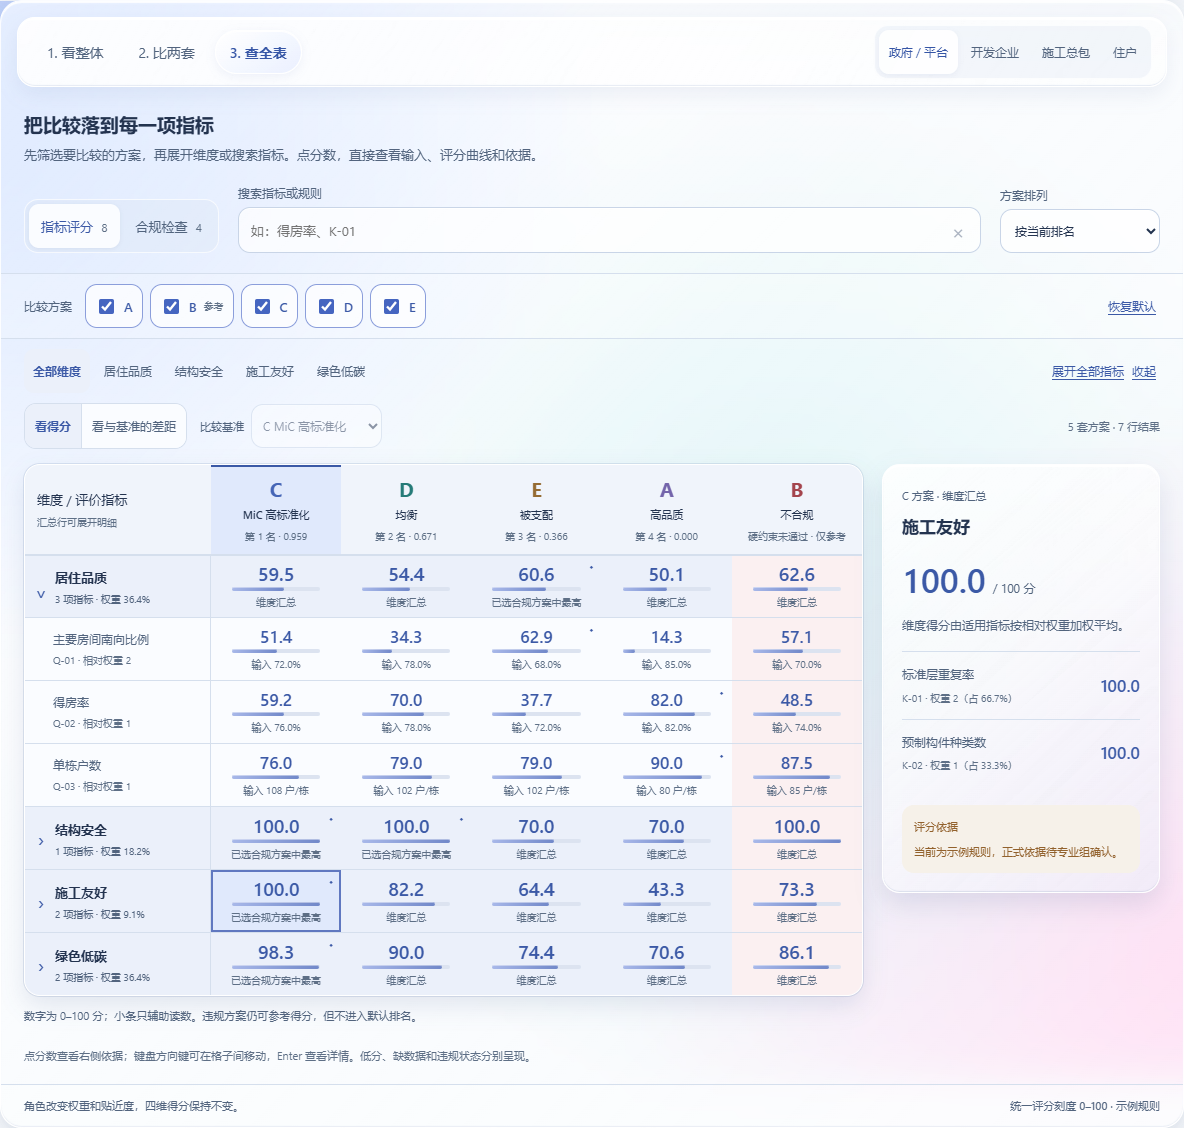
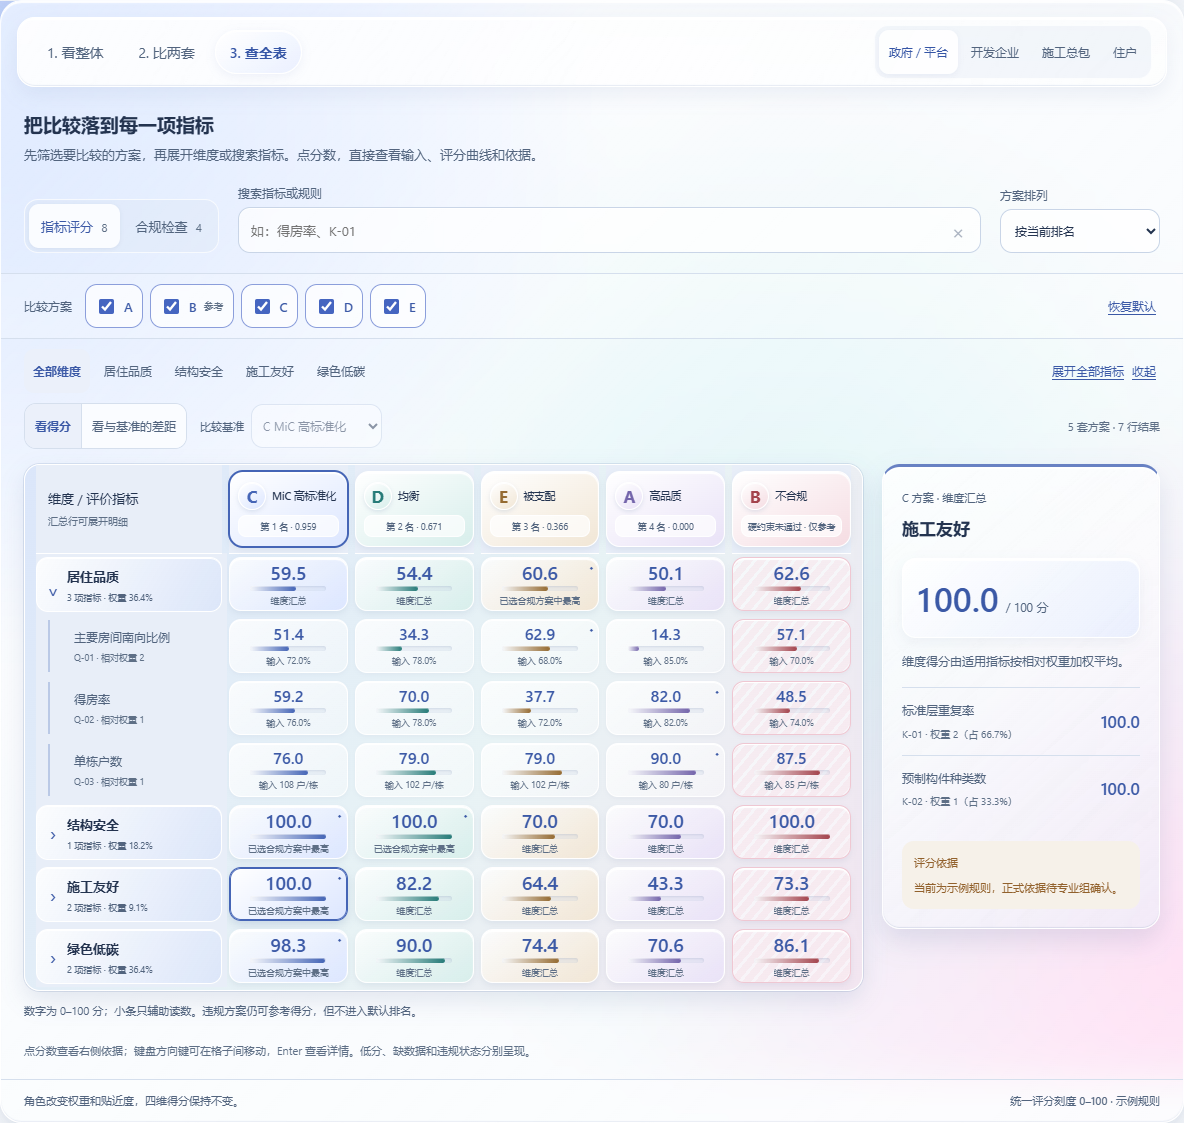
design: rebuild indicator table as glass card matrix with matching export

diff --git a/design/prototype/comparison-table.js b/design/prototype/comparison-table.js
@@ -207,14 +207,51 @@ function initMatrixControls() {
 function matrixSvg() {
   const shown=tableSchemes(),rows=tableRows(),labelWidth=205,cellWidth=156,left=30,top=124,header=92,rowHeight=65;
   const W=Math.max(730,left*2+labelWidth+shown.length*cellWidth),H=top+header+rows.length*rowHeight+112;
-  const text=(x,y,value,size=13,color='#526f82',anchor='start',weight=400)=>`<text x="${x}" y="${y}" font-size="${size}" fill="${color}" text-anchor="${anchor}" font-weight="${weight}">${escapeText(value)}</text>`;
-  const rect=(x,y,w,h,fill)=>`<rect x="${x}" y="${y}" width="${w}" height="${h}" fill="${fill}" stroke="#dce5eb"/>`;
-  let body=text(30,38,'筑衡 · 指标与依据查询',24,'#203e54','start',600)+text(30,67,`${roleLabels[state.role]}视角 · ${state.matrixDataset==='compliance'?'合规检查':state.matrixMode==='difference'?`得分差 / 以 ${schemeById(state.matrixBaseline).letter} 为基准`:'维度与指标得分'}`,14);
-  body+=text(30,95,`${shown.length} 套方案 · ${rows.length} 行结果${state.matrixSearch?` · 搜索：${state.matrixSearch}`:''}`,12,'#52647e');
-  body+=rect(left,top,labelWidth,header,'#ebf0fa')+text(left+14,top+46,'维度 / 指标',14);
-  shown.forEach((s,index)=>{const x=left+labelWidth+index*cellWidth;body+=rect(x,top,cellWidth,header,'#f0f4fb')+text(x+cellWidth/2,top+25,s.letter,23,pointColors[s.id],'middle',600)+text(x+cellWidth/2,top+48,s.title,12,'#52647e','middle')+text(x+cellWidth/2,top+70,ranked(s.id)?`第 ${ranked(s.id).rank} 名`:'未通过硬约束 / 参考',11,'#52647e','middle');});
-  rows.forEach((row,index)=>{const y=top+header+index*rowHeight;body+=rect(left,y,labelWidth,rowHeight,row.kind==='dimension'?'#ebf0fa':'#fff')+text(left+13,y+27,row.name.replace(/（.*?）/g,''),13,'#48677e','start',row.kind==='dimension'?600:400)+text(left+13,y+47,row.kind==='dimension'?`权重 ${one(current().weights[row.dimensionIndex]*100)}%`:row.key,11,'#5e6f86');shown.forEach((s,col)=>{const x=left+labelWidth+col*cellWidth;let val='',note='',color='#3b59a6';if(row.kind==='hard'){const status=tableStatus(row,s.id);val=`${status.icon} ${status.label}`;color=status.style==='fail'?'#a4444d':status.style==='pass'?'#277465':'#5e6f86';}else{const value=tableScore(row,s.id),base=tableScore(row,state.matrixBaseline),delta=valid(value)&&valid(base)?value-base:null;val=state.matrixMode==='difference'?(String(s.id)===state.matrixBaseline&&valid(value)?'基准':signed(delta)):one(value);note=!valid(value)?'缺数据':state.matrixMode==='difference'?`原分 ${one(value)}`:row.kind==='metric'?`输入 ${inputValue(evaluation(s.id).metrics[row.key],row.key)}`:'';if(state.matrixMode==='difference'&&valid(delta)&&delta<0)color='#92612c';}body+=rect(x,y,cellWidth,rowHeight,row.kind==='dimension'?'#f0f4fb':'#fff')+text(x+cellWidth/2,y+30,val,19,color,'middle',600)+text(x+cellWidth/2,y+50,note,10,'#5e6f86','middle');});});
+  const wash={'1':'#e9e2f7','2':'#f5dce2','3':'#dce6ff','4':'#d7eeeb','5':'#f1e6d5'};
+  const text=(x,y,value,size=13,color='#52647e',anchor='start',weight=400)=>`<text x="${x}" y="${y}" font-size="${size}" fill="${color}" text-anchor="${anchor}" font-weight="${weight}">${escapeText(value)}</text>`;
+  const rect=(x,y,w,h,fill,stroke='#fff')=>`<rect x="${x}" y="${y}" width="${w}" height="${h}" rx="11" fill="${fill}" stroke="${stroke}"/>`;
+  let body=text(30,38,'筑衡 · 指标与依据查询',24,'#23334f','start',600)+text(30,67,`${roleLabels[state.role]}视角 · ${state.matrixDataset==='compliance'?'合规检查':state.matrixMode==='difference'?`得分差 / 以 ${schemeById(state.matrixBaseline).letter} 为基准`:'维度与指标得分'}`,14);
+  body+=text(30,95,`${shown.length} 套方案 · ${rows.length} 行结果${state.matrixSearch?` · 搜索：${state.matrixSearch}`:''}`,12);
+  body+=rect(left,top,labelWidth-8,header-8,'#e8eef8')+text(left+14,top+42,state.matrixDataset==='compliance'?'硬约束规则':'维度 / 指标',14);
+  shown.forEach((s,index)=>{
+    const x=left+labelWidth+index*cellWidth;
+    body+=rect(x+3,top,cellWidth-9,header-8,`url(#matrix-card-${s.id})`,state.matrixActive?.scheme===String(s.id)?pointColors[s.id]:'#fff');
+    body+=`<circle cx="${x+cellWidth/2}" cy="${top+22}" r="15" fill="#fff" fill-opacity=".7" stroke="#fff"/>`;
+    body+=text(x+cellWidth/2,top+29,s.letter,21,pointColors[s.id],'middle',600)+text(x+cellWidth/2,top+50,s.title,12,'#23334f','middle')+text(x+cellWidth/2,top+69,ranked(s.id)?`第 ${ranked(s.id).rank} 名 · ${ranked(s.id).closeness.toFixed(3)}`:'未通过硬约束 · 仅参考',10,'#52647e','middle');
+  });
+  rows.forEach((row,index)=>{
+    const y=top+header+index*rowHeight;
+    body+=rect(left,y,labelWidth-8,rowHeight-7,row.kind==='dimension'?'#e1e9f8':'#f1f5fb')+text(left+13,y+25,row.name.replace(/（.*?）/g,''),13,'#23334f','start',row.kind==='dimension'?600:400)+text(left+13,y+44,row.kind==='dimension'?`权重 ${one(current().weights[row.dimensionIndex]*100)}%`:row.key,11);
+    shown.forEach((s,col)=>{
+      const x=left+labelWidth+col*cellWidth,id=String(s.id),selected=state.matrixActive?.scheme===id&&state.matrixActive?.row===row.key;
+      const value=tableScore(row,id),base=tableScore(row,state.matrixBaseline),delta=valid(value)&&valid(base)?value-base:null,relative=state.matrixMode==='difference';
+      let val='',note='',color='#3b59a6';
+      if(row.kind==='hard'){
+        const status=tableStatus(row,id);val=`${status.icon} ${status.label}`;
+        color=status.style==='fail'?'#a4444d':status.style==='pass'?'#277465':'#5e6f86';
+      }else{
+        val=relative?(id===state.matrixBaseline&&valid(value)?'基准':signed(delta)):one(value);
+        const metric=evaluation(id)?.metrics[row.key];
+        note=!valid(value)?(metric?.status==='not_applicable'?'不适用':'缺数据'):relative?`原分 ${one(value)}`:row.kind==='metric'?`输入 ${inputValue(metric,row.key)}`:'维度汇总';
+        if(relative&&valid(value)&&!valid(base))note='基准缺数据';
+        if(relative&&valid(delta)&&delta<0)color='#92612c';
+      }
+      const fill=excluded(id)?'url(#matrix-reference)':row.kind==='dimension'||selected?`url(#matrix-card-${id})`:'#ffffffb3';
+      body+=rect(x+3,y,cellWidth-9,rowHeight-7,fill,selected?pointColors[id]:'#fff');
+      body+=text(x+cellWidth/2,y+25,val,row.kind==='hard'?14:19,color,'middle',600);
+      if(row.kind!=='hard'){
+        const tx=x+28,tw=cellWidth-56;
+        body+=rect(tx,y+32,tw,4,'#d0daea');
+        const start=relative?(valid(delta)&&delta<0?50-Math.min(50,Math.abs(delta)/2):50):0;
+        const extent=relative?(valid(delta)?Math.min(50,Math.abs(delta)/2):0):(valid(value)?Math.max(0,Math.min(100,value)):0);
+        if(extent>0)body+=rect(tx+tw*start/100,y+32,tw*extent/100,4,relative&&delta<0?'#aa7a39':pointColors[id]);
+        if(relative)body+=`<line x1="${tx+tw/2}" y1="${y+30}" x2="${tx+tw/2}" y2="${y+39}" stroke="#5e6f86"/>`;
+        body+=text(x+cellWidth/2,y+50,note,10,'#52647e','middle');
+      }
+    });
+  });
   if(!rows.length||!shown.length)body+=text(30,top+header+45,'没有可导出的匹配结果',14);
-  body+=text(30,H-54,'缺数据、不适用和未通过硬约束分别呈现；违规方案不参与默认排名。',12,'#52647e')+text(30,H-26,'虚构示例，仅供设计讨论，不得作为工程验证或答辩结论。',12,'#52647e');
-  return `<svg xmlns="http://www.w3.org/2000/svg" width="${W}" height="${H}" viewBox="0 0 ${W} ${H}" style="font-family:Segoe UI,Microsoft YaHei,sans-serif">${exportGlassBackdrop(W,H)}${body}</svg>`;
+  body+=text(30,H-54,'缺数据、不适用和未通过硬约束分别呈现；违规方案不参与默认排名。',12)+text(30,H-26,'虚构示例，仅供设计讨论，不得作为工程验证或答辩结论。',12);
+  const paints=`<defs>${shown.map(s=>`<linearGradient id="matrix-card-${s.id}" x2="1" y2="1"><stop stop-color="#fff"/><stop offset="1" stop-color="${wash[s.id]}"/></linearGradient>`).join('')}<pattern id="matrix-reference" width="10" height="10" patternUnits="userSpaceOnUse" patternTransform="rotate(40)"><rect width="10" height="10" fill="#faebf0"/><rect width="3" height="10" fill="#fff" fill-opacity=".7"/></pattern></defs>`;
+  return `<svg xmlns="http://www.w3.org/2000/svg" width="${W}" height="${H}" viewBox="0 0 ${W} ${H}" style="font-family:Segoe UI,Microsoft YaHei,sans-serif">${exportGlassBackdrop(W,H)}${paints}${body}</svg>`;
 }

diff --git a/design/prototype/comparison-glass.css b/design/prototype/comparison-glass.css
@@ -165,7 +165,104 @@ input[type=checkbox] { accent-color: #4565c0; }
 #matrix th[data-column="3"] .table-scheme-title > span { color: #4565b6; }
 #matrix th[data-column="4"] .table-scheme-title > span { color: #267b78; }
 #matrix th[data-column="5"] .table-scheme-title > span { color: #956b32; }
-.table-score-cell.is-selected { box-shadow: inset 0 0 0 2px #6078c0; }
+#matrix [data-column="1"] { --scheme-color: #7465ab; --scheme-wash: #e9e2f7; }
+#matrix [data-column="2"] { --scheme-color: #a4444d; --scheme-wash: #f5dce2; }
+#matrix [data-column="3"] { --scheme-color: #4565b6; --scheme-wash: #dce6ff; }
+#matrix [data-column="4"] { --scheme-color: #267b78; --scheme-wash: #d7eeeb; }
+#matrix [data-column="5"] { --scheme-color: #956b32; --scheme-wash: #f1e6d5; }
+#view-matrix .matrix-scroll {
+  background: linear-gradient(125deg,#dbe6fa,#e8f3f5 55%,#f2e5f0);
+  padding: 0 4px 3px;
+}
+#view-matrix .matrix { min-width: 735px; border-spacing: 7px 0; }
+#view-matrix .matrix th, #view-matrix .matrix td { border-bottom: 0; }
+#view-matrix .matrix thead th {
+  background: #e8eef8; box-shadow: 0 1px 0 #fff;
+  height: 88px;
+}
+#view-matrix .matrix thead th:first-child { width: 186px; background: #e8eef8; }
+.table-scheme-title {
+  margin: 6px 0; padding: 8px; min-height: 76px;
+  display: grid; grid-template-columns: 28px minmax(0,1fr); align-items: center; gap: 3px 6px;
+  border: 1px solid #fff; border-radius: 14px;
+  background: linear-gradient(150deg,#fff,var(--scheme-wash));
+  box-shadow: inset 0 2px 1px #fff, 0 3px 7px #314e8417;
+}
+.table-scheme-title > span {
+  display: grid; place-items: center; width: 28px; height: 28px;
+  margin: 0; font-size: 17px; border-radius: 50%;
+  background: linear-gradient(145deg,#fff,var(--scheme-wash));
+  border: 1px solid #fff; box-shadow: inset 0 1px 0 #fff, 0 2px 5px #314e8426;
+}
+.table-scheme-title strong {
+  text-align: left; line-height: 1.35; font-size: 10.5px;
+  white-space: normal; overflow: visible; text-overflow: clip; overflow-wrap: anywhere;
+}
+.table-scheme-title small {
+  grid-column: 1 / -1; margin: 0; padding: 3px 0;
+  background: #ffffffb3; border: 1px solid #ffffffd9; border-radius: 8px;
+  color: #52647e; font-size: 9px;
+}
+#view-matrix .matrix thead .selected-column {
+  background: #e8eef8; box-shadow: 0 1px 0 #fff;
+}
+.selected-column .table-scheme-title { outline: 2px solid var(--scheme-color); outline-offset: -1px; }
+#view-matrix .table-row-label {
+  background: #e8eef8; border-right: 0 !important;
+  box-shadow: 5px 0 0 #e8eef8;
+}
+#view-matrix .dimension-row { background: transparent; }
+#view-matrix .dimension-row .table-row-label { background: #e8eef8; }
+.dimension-disclosure {
+  padding: 8px 10px; min-height: 54px; border: 1px solid #fff; border-radius: 12px;
+  background: linear-gradient(120deg,#ffffffd9,#dce6f9);
+  box-shadow: inset 0 1px 0 #fff;
+}
+.dimension-disclosure strong { font-size: 13px; }
+.dimension-disclosure small { font-size: 9px; }
+.indicator-label { padding: 9px 10px 9px 24px; border-left: 2px solid #bac9e6; margin: 4px 0 4px 12px; }
+.indicator-label small { font-size: 9px; }
+.table-score-cell {
+  height: 54px; margin: 4px 0; padding: 5px 4px; gap: 3px;
+  border: 1px solid #ffffffed; border-radius: 12px;
+  background: linear-gradient(145deg,#ffffffcc,#ffffff57);
+  box-shadow: inset 0 1px 0 #fff, 0 2px 4px #314e840a;
+}
+.dimension-row .table-score-cell {
+  background: linear-gradient(145deg,#ffffffcc,var(--scheme-wash));
+  box-shadow: inset 0 2px 1px #fff, 0 3px 6px #314e8414;
+}
+.table-score-cell.is-selected {
+  background: linear-gradient(145deg,#fff,var(--scheme-wash));
+  border-color: var(--scheme-color);
+  box-shadow: inset 0 0 0 1px var(--scheme-color), inset 0 2px 1px #fff, 0 4px 9px #314e8426;
+}
+.table-score-cell.reference-cell:not(.is-selected) {
+  background: repeating-linear-gradient(130deg,#faebf0ad,#faebf0ad 7px,#ffffff80 7px,#ffffff80 10px);
+  border-color: #efc7d2;
+}
+.table-cell-value { font-size: 19px; }
+.indicator-row .table-cell-value { font-size: 16px; }
+.table-cell-note { font-size: 9px; }
+.dimension-row .table-cell-note { overflow: hidden; text-overflow: ellipsis; max-width: 100%; }
+.table-cell-value small { font-size: 7px; top: 7px; right: 5px; }
+.table-score-cell .cell-tick { width: 70%; height: 5px; background: #bfcbe33d; box-shadow: inset 0 1px 2px #50649026; }
+.table-score-cell .cell-tick i { height: 5px; background: linear-gradient(90deg,#ffffffaa,var(--scheme-color)); }
+.table-score-cell .below + .cell-tick i { background: linear-gradient(90deg,#e7d2ac,#aa7a39); }
+.rule-state { border-radius: 10px; padding: 7px 9px; border: 1px solid #fff; background: #ffffffb3; }
+.rule-state.pass { background: #e5f4ef; border-color: #b6dace; }
+.rule-state.fail { background: #fbe5eb; border-color: #e5a2b2; }
+.rule-state.missing, .rule-state.neutral { background: #edf0f5; border-color: #cfd7e4; }
+#matrix-inspector { border-top: 3px solid #6881c3; }
+#matrix-inspector .inspector-number {
+  padding: 16px 12px; border: 1px solid #fff; border-radius: 14px;
+  background: linear-gradient(135deg,#ffffffed,#dce7ff80);
+  box-shadow: inset 0 2px 1px #fff, 0 5px 14px #344b8010;
+}
+@media (hover:hover) {
+  .table-score-cell:hover { background: linear-gradient(145deg,#fff,var(--scheme-wash)); border-color: #a2b3d6; }
+  .table-score-cell.is-selected:hover { background: linear-gradient(145deg,#fff,var(--scheme-wash)); border-color: var(--scheme-color); }
+}
 .cell-tick { height: 4px; background: #dce3f0; border-radius: 4px; }
 .cell-tick i { height: 4px; background: linear-gradient(90deg,#a8b8e9,#7188c9); border-radius: 4px; box-shadow: inset 0 1px 0 #ffffff70; }
 .below + .cell-tick i { background: linear-gradient(90deg,#decaac,#b28d5b); }
@@ -192,6 +289,9 @@ input[type=checkbox] { accent-color: #4565c0; }
   .plot-wrap, .pair-plot, #matrix-detail-dialog {
     background: #f8faff; backdrop-filter: none; -webkit-backdrop-filter: none;
   }
+  .table-score-cell, .dimension-row .table-score-cell, .table-scheme-title,
+  .dimension-disclosure, #matrix-inspector .inspector-number { background: #f8faff; }
+  .table-score-cell.reference-cell:not(.is-selected) { background: #faebf0; }
 }
 @media (max-width:980px) {
   .view-tabs { min-height: 60px; }

diff --git a/design/prototype/comparison.js b/design/prototype/comparison.js
@@ -9,7 +9,8 @@ const dimensions = [
 ];
 const roleLabels = { government: '政府 / 平台', developer: '开发企业', contractor: '施工总包', resident: '住户' };
 const schemes = data.schemes.map(scheme => ({ ...scheme, letter: scheme.name.split(' ')[0], title: scheme.name.substring(scheme.name.indexOf(' ') + 1) }));
-const state = { role: 'government', view: 'map', selected: '3', dimension: 2, x: 0, y: 2, includeB: false, pairA: '3', pairB: '4' };
+const requestedView = new URLSearchParams(location.hash.slice(1)).get('view');
+const state = { role: 'government', view: ['map','pair','matrix'].includes(requestedView) ? requestedView : 'map', selected: '3', dimension: 2, x: 0, y: 2, includeB: false, pairA: '3', pairB: '4' };
 Object.assign(state, {
   matrixDataset: 'scores', matrixMode: 'score', matrixBaseline: '3', matrixDimension: 'all', matrixSearch: '', matrixOrder: 'rank',
   matrixShown: new Set(schemes.map(s => String(s.id))), matrixOpen: new Set(['quality']),

diff --git a/design/prototype/comparison.html b/design/prototype/comparison.html
@@ -14,7 +14,7 @@
     <a class="nav-link" href="index.html"><span>01</span>项目与方案</a>
     <div class="nav-link active"><span>02</span>多方案对比<i>↗</i></div>
     <a class="nav-link" href="index.html"><span>03</span>推演与报告</a>
-    <div class="side-foot"><span class="status-dot"></span> 展示设计 · V5.1<small>看整体 → 比两套 → 查全表</small></div>
+    <div class="side-foot"><span class="status-dot"></span> 展示设计 · V6<small>看整体 → 比两套 → 查全表</small></div>
   </aside>
   <main>
     <header class="topbar"><span>杭州钱塘 · 保障性租赁住房 <b>/</b> 多方案比选</span><span class="sample-tag">虚构示例 · 设计讨论</span></header>

diff --git a/design/glass-chart-handoff.md b/design/glass-chart-handoff.md
@@ -1,4 +1,4 @@
-# 玻璃风图表交接 · V5.1
+# 玻璃风图表交接 · V6
 
 ## 这次交付
 
@@ -13,7 +13,7 @@
 | 二级内容 | 半透明白到浅蓝渐变；圆角 18px；轻模糊与投影 | 当前方案、差值小结、评分依据，独立于主玻璃层 |
 | 正文 / 辅助 | #23334f / #52647e | 数值、轴标签和解释不降低透明度 |
 | 方案色 | A #7465ab；B #a4444d；C #4565b6；D #267b78；E #956b32 | 所有视图保持同一方案身份；颜色不代表分数高低 |
-| 评分表 | #fafcff / #ebf0fa；选中 #e0e9fc | 实底隔离文字；细条仅辅助读数 |
+| 评分表 | 固定层 #e8eef8；分数格白色高光到方案浅色；圆角 12px | 分离方案列与指标行；固定层隔离滚动内容，选中格及表头以方案色描边 |
 | 状态 | 通过 #277465；未通过 #a4444d；缺值 #5e6f86 | 配合文字、图标、参考提示区分 |
 
 ## 图表如何适配
@@ -32,9 +32,15 @@
 
 ### 指标 / 合规工作台
 
-外壳和筛选器使用玻璃材质；固定表头、首列和数据格使用浅色实底。进度条以柔和蓝紫渐变表示原有 0–100 分，得分由数字明确给出。选中格用稳定的描边和浅底；负差为琥珀色；违规列保留参考提示与粉色底；缺数据不填成零。
+V6 将表格内部改成有间隔的二维卡片网格。表头是方案卡片，显示字母、完整名称、排名与贴近度；每格使用白色亮边、圆角和轻高光。四个维度汇总格带方案浅色，展开的指标格更轻，左侧以竖线区分明细层级。固定表头和首列底层保持不透明，防止滚动内容穿透；格子自身不叠加模糊滤镜。
+
+进度条颜色沿用方案身份，长度仍表示 0–100 分；颜色不代表高低，数字是主要读数。分差模式保留中线，负差为琥珀色。B 列用粉色斜纹和表头“未通过 / 仅参考”提示；选中格和对应表头以方案色描边；缺数据不填成零。合规状态分别使用通过、未通过、不适用和数据不足的文字胶囊。
+
+网格最小宽度 735px，窄屏在表格内部横向滚动。默认五方案、七行结果仍能完整放入当前高度；筛选与全部展开继续沿用原有行为。导出 SVG 使用同样的卡片表头、分数格、进度条和参考列斜纹；每格的分数与差值仍从相同数据生成。
 
 **Ant Design 映射：**在 Table 容器上使用玻璃圆角，固定层保持不透明，选中样式绑定现有选择状态；详情延续 TraceDrawer。按钮、分段切换、搜索、焦点反馈按原组件能力接入，避免把过滤器包裹成多层 backdrop-filter。
+
+内部样式映射：通过 `onCell` 或列 render 提供 scheme_id 对应的颜色变量；格子采用 `border-radius:12px` 与白色细边；表头 render 为字母标识 + 名称 + 排名卡片。保留语义表格，不把每套方案拆成无法横向对齐的独立表格。详见 [总表前后对照](evidence/comparison-matrix-before-after.png) 和 [总表入口](prototype/comparison.html#view=matrix)。
 
 ## 动效、降级与验收
 

diff --git a/design/README.md b/design/README.md
@@ -10,11 +10,13 @@
 
 交付物是可点击的 [低保真流程原型](prototype/index.html)、[二维方案对比视觉稿](prototype/comparison.html) 和以下页面决策。浏览器直接打开 HTML 文件即可查看；不需要 Figma 账号。对比视觉稿使用仓库现有的虚构评分与四个角色权重，演示图表、排名与合规提醒的布局。下载时保留同目录下的 CSS、JS 与数据文件。
 
-### 二维方案对比稿 V5.1 · 玻璃材质
+### 二维方案对比稿 V6 · 玻璃材质与指标网格
 
 按用户提供的 [UI 素材手册](resources/liquid-glass/Steelyard_UI_Resource_Guide.md) 调整了对比原型。静态蓝紫 / 淡粉柔光、20px 模糊、半透明白面板、白色边缘高光构成统一材质；方案点使用 SVG 径向渐变，双方案连线使用透明渐变色带。数字和坐标仍以深色呈现。密集表格使用浅色实底，固定表头、首列滚动时不会透出下面的文字。
 
 V5.1 针对用户反馈的“只有方案点变化明显”强化整张面板：主玻璃底色从白 / 62% 调为白 / 36%，叠加局部高光；增强蓝紫、青色与淡粉背景；工具栏和坐标 / 方案选择区使用独立的浮起玻璃条；图表底板、详情卡与表格容器增加边缘亮线及投影。SVG 图内也加入反光带和渐变边线。见 [相同数据的前后对照](evidence/comparison-glass-before-after.png)。
+
+V6 针对总表内部变化不明显的反馈重做指标网格：[直接进入总表](prototype/comparison.html#view=matrix)。方案表头变成带字母标识、名称与排名的独立卡片；汇总格与指标格使用不同底色和间距；数字格增加圆角、白色亮边及内凹进度轨道；B 列加入粉色斜纹；选中格与对应方案表头使用方案色描边。固定表头 / 首列仍隔离下面的文字，不对每格叠加 blur。导出 SVG 同步改为卡片网格。见 [总表自身的前后对照](evidence/comparison-matrix-before-after.png)。
 
 材质集中在 [comparison-glass.css](prototype/comparison-glass.css)，便于前端映射到现有 Ant Design / ECharts。它实现毛玻璃与绘制高光，没有采用真正的位移折射。导出 SVG 自带背景、渐变和字体配置，离线打开即可显示；无模糊支持或减少透明度设置时使用实底。具体参数和开发映射见 [玻璃风图表交接](glass-chart-handoff.md)。
 
